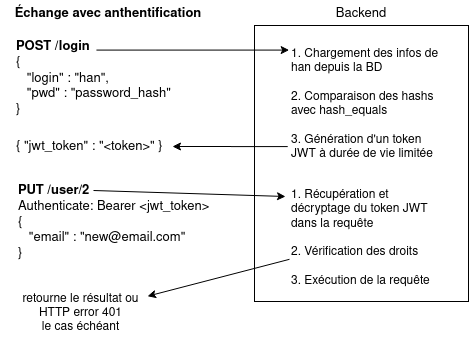
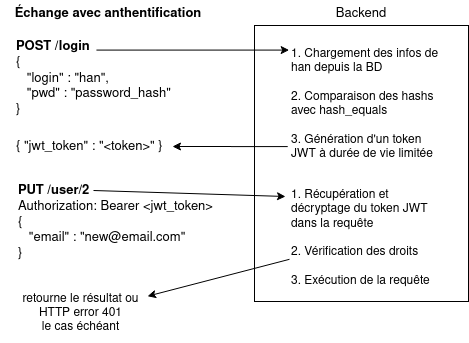
update TP Auth again

Changed region(s): [[0.1194, 0.5831, 0.4478, 0.6122]]

diff --git a/BackEnd/TP-REST_MVC_Auth.md b/BackEnd/TP-REST_MVC_Auth.md
@@ -241,7 +241,7 @@ class ValidatetokenController extends Controller {
 	public function processRequest() {
       try {
          $jwt_token = $this->request->getJwtToken();
-         // echo "jwt = $jwt_token";
+
          $decodedJWT = JWT::decode($jwt_token, JWT_BACKEND_KEY, array('HS256'));
          $jsonResult = json_encode(array(
              "message" => "Access granted.",
@@ -263,6 +263,7 @@ class ValidatetokenController extends Controller {
 }
 ```
 
+La méthode `JWT::decode` décode le contenu du token mais teste également si le token n'a pas expiré.
 En envoyant une requête correcte avec un token JWT dans le header `Authorization` vous devez obtenir les informations stockée dans le token JWT ainsi :
 
 ```json
